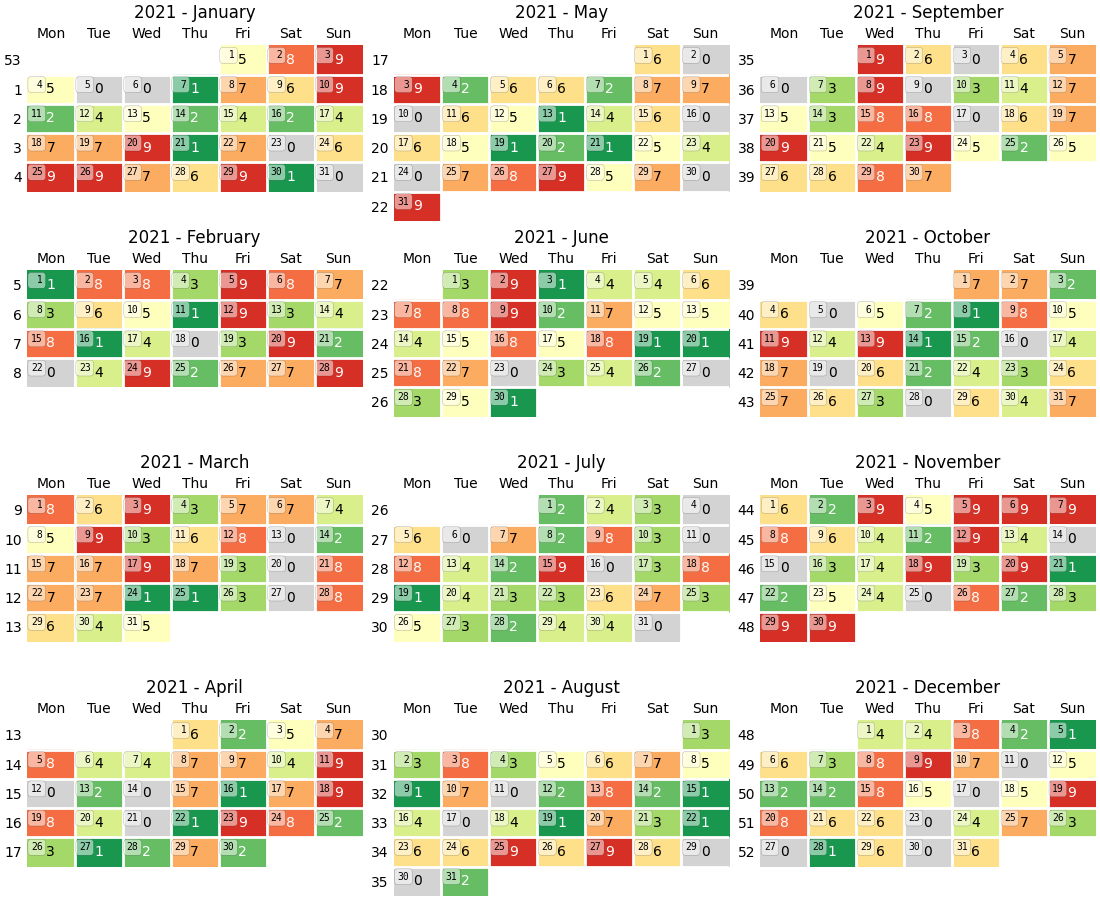
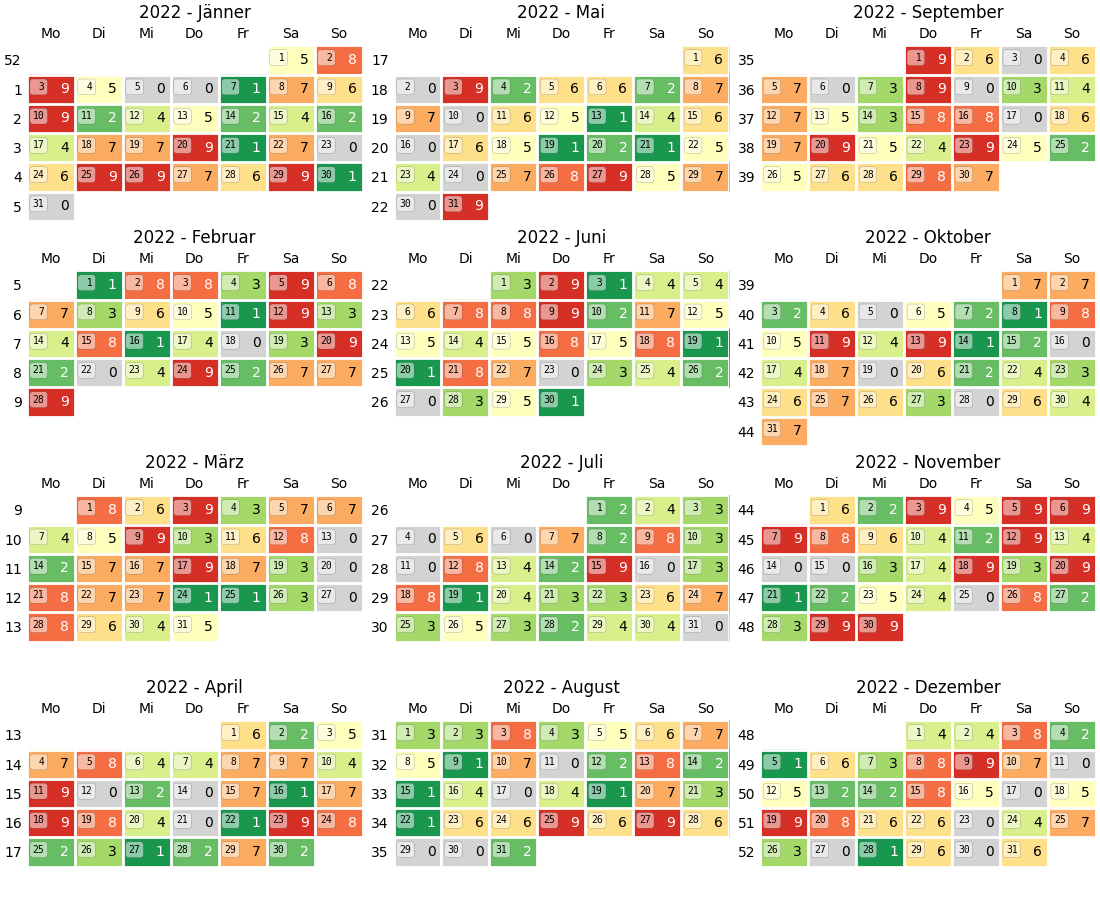
removed seaborn as requirement

diff --git a/_github_preview_plot/_make_preview_plot.py b/_github_preview_plot/_make_preview_plot.py
@@ -1,36 +1,18 @@
+import pandas as pd
+import numpy as np
+import matplotlib.pyplot as plt
 import calendar
 import copy
-from math import ceil
-
-import matplotlib.pyplot as plt
-import numpy as np
-import pandas as pd
 from matplotlib.colors import Normalize
 
+from math import ceil
 
-def _get_txt_coords(col, row, annotation_fmt, pad):
-    # ha='center', va='center'
-    x = col
-    if annotation_fmt['ha'] == 'center':
-        x -= 0.5
-    elif annotation_fmt['ha'] == 'left':
-        x -= 1 + pad
-    elif annotation_fmt['ha'] == 'right':
-        x -= pad
-
-    y = row
-    if annotation_fmt['va'] == 'center':
-        y += 0.5
-    elif annotation_fmt['va'] == 'bottom':
-        y += 1 - pad
-    elif annotation_fmt['va'] == 'top':
-        y += pad
-    return x, y
+from monthly_calendar_plot.plot import _get_txt_coords
 
 
-def monthly_calendar_figure(series, cols=3, cmap='RdYlGn_r', min_value=0.001, color_unter='lightgray', color_bad='grey',
-                            transpose_figure=True, value_max=None,
-                            month_fmt='%Y - %B', annotation_fmt=None, value_fmt='_.0f'):
+def _icon_monthly_calendar_figure(series, cols=3, cmap='RdYlGn_r', min_value=0.001, color_unter='lightgray', color_bad='grey',
+                                  transpose_figure=True, value_max=None,
+                                  month_fmt='%Y - %B', annotation_fmt=None, value_fmt='_.0f'):
     """
     Create a calendar with each month separate.
     Week numbers as rows and day of the week names as columns.
@@ -54,7 +36,7 @@ def monthly_calendar_figure(series, cols=3, cmap='RdYlGn_r', min_value=0.001, co
     month_groups = series.groupby(series.index.to_period('M'))
     rows = ceil(month_groups.ngroups / cols)
 
-    fig = plt.figure(constrained_layout=True)  # type: plt.Figure
+    fig = plt.figure(tight_layout=True)  # type: plt.Figure
     axes = fig.subplots(rows, cols)
 
     # fig.get_layout_engine().set(h_pad=0.1, w_pad=0.1)
@@ -120,14 +102,17 @@ def monthly_calendar_figure(series, cols=3, cmap='RdYlGn_r', min_value=0.001, co
         ax.grid(which="minor", color="w", linestyle='-', linewidth=2)
 
         ax.set_xticks(np.arange(0.5, 7))
+        # ax.set_xticklabels(['~'] * len(weekday_names))
         ax.set_xticklabels(weekday_names)
         ax.set_ylabel('')
         ax.set_title(month.strftime(month_fmt))
+        # ax.set_title('~~~~')
         ax.xaxis.tick_top()
         # [str(x) for x in ax.get_yticklabels()]
         ax.set_yticks(np.arange(0.5, n_weeks))
         # ax.set_yticklabels([x.get_text()[5:].lstrip('0') for x in ax.get_yticklabels()])
-        ax.set_yticklabels(((df.index - df.index.astype(int)).values*100).round(0).astype(int))
+        ax.set_yticklabels(['--']*len(ax.get_yticks()))
+        # ax.set_yticklabels(((df.index - df.index.astype(int)).values*100).round(0).astype(int))
         ax.set_ylim(6, 0)
         # ax.yaxis.set_ticks_position('none')
         ax.tick_params(axis=u'both', which=u'both', width=0, length=0.01)
@@ -142,10 +127,10 @@ def monthly_calendar_figure(series, cols=3, cmap='RdYlGn_r', min_value=0.001, co
             col = dayofweek
 
             # Day of the month
-            ax.text(col-1+pad, row+pad*2, f'{day:2d}', ha='left', va='top', size=7, family='monospace',
-                    bbox=dict(boxstyle='round', facecolor='white', alpha=0.5, lw=0.2))
+            # ax.text(col-1+pad, row+pad*2, f'{day:2d}', ha='left', va='top', size=7, family='monospace',
+            #         bbox=dict(boxstyle='round', facecolor='white', alpha=0.5, lw=0.2))
 
-            ax.text(*_get_txt_coords(col, row, annotation_fmt, pad), f'{value:{value_fmt}}', **annotation_fmt, color=_get_txt_color(value))
+            ax.text(*_get_txt_coords(col, row, annotation_fmt, pad), '--', **annotation_fmt, color=_get_txt_color(value))
 
         if there_is_a_progress_bar:
             progress_bar.update()
@@ -154,3 +139,22 @@ def monthly_calendar_figure(series, cols=3, cmap='RdYlGn_r', min_value=0.001, co
         progress_bar.close()
 
     return fig
+
+
+if __name__ == '__main__':
+    # Creating random dataset:
+    index = pd.date_range('2022-01-01', '2022-12-31', freq='D')
+    np.random.seed(1)
+    data = np.random.randint(0, 10, size=(len(index)))
+    # making the data to a pandas.Series:
+    daily = pd.Series(index=index, data=data)
+
+    # actual plotting function:
+    fig = _icon_monthly_calendar_figure(series=daily, cols=3, cmap='RdYlGn_r', min_value=0.001, color_unter='lightgray', color_bad='white', annotation_fmt=dict(ha='right'))
+    # 1280×640px
+    fig.set_dpi(100)
+    fig.set_size_inches(h=6.4, w=12.8)
+    fig.suptitle('monthly_calendar_plot', weight='bold', size=32)
+    # fig.tight_layout(pad=0.01, rect=[0.1, 0.1, 0.8, 0.8])
+    # 80 pt inches (1 inch = 100 pt)
+    fig.savefig('icon.png', bbox_inches='tight', pad_inches=1)

diff --git a/setup.py b/setup.py
@@ -1,35 +1,3 @@
-__author__ = "Markus Pichler"
-__credits__ = ["Markus Pichler"]
-__maintainer__ = "Markus Pichler"
-__email__ = "markus.pichler@tugraz.at"
-__version__ = "0.1"
-__license__ = "MIT"
-
 from setuptools import setup
 
-
-with open("README.md", "r") as fh:
-    long_description = fh.read()
-
-with open('requirements.txt') as f:
-    requirements = f.read().splitlines()
-
-setup(
-    name='monthly-calendar-analysis',
-    version='0.1beta',
-    packages=['monthly_calendar_analysis'],
-    url='https://github.com/MarkusPic/monthly-calendar-plot',
-    license='MIT',
-    author='Markus Pichler',
-    author_email='markus.pichler@tugraz.at',
-    description='create a calendar with each month separate. week numbers as rows and day of the week names as columns',
-    # scripts=['bin/idf_analysis'],
-    install_requires=requirements,
-    long_description=long_description,
-    long_description_content_type="text/markdown",
-    classifiers=[
-        "Programming Language :: Python :: 3",
-        "License :: OSI Approved :: MIT License",
-        "Operating System :: OS Independent",
-    ],
-)
+setup()

diff --git a/example.py b/example.py
@@ -1,8 +1,11 @@
 from monthly_calendar_plot import monthly_calendar_figure
 import pandas as pd
 import numpy as np
+import locale
+
 
 if __name__ == '__main__':
+    locale.setlocale(locale.LC_ALL, 'de_AT.UTF-8')
     # Creating random dataset:
     index = pd.date_range('2022-01-01', '2022-12-31', freq='D')
     np.random.seed(1)
@@ -11,6 +14,6 @@ if __name__ == '__main__':
     daily = pd.Series(index=index, data=data)
 
     # actual plotting function:
-    fig = monthly_calendar_figure(series=daily, cols=3, cmap='RdYlGn_r', min_value=0.001, color_unter='lightgray', color_bad='white')
+    fig = monthly_calendar_figure(series=daily, cols=3, cmap='RdYlGn_r', min_value=0.001, color_unter='lightgray', color_bad='white', annotation_fmt=dict(ha='right'))
     fig.set_size_inches(h=9, w=11)
     fig.savefig('example.png')

diff --git a/README.md b/README.md
@@ -7,14 +7,20 @@ create a calendar with each month separate. week numbers as rows and day of the 
 from monthly_calendar_plot import monthly_calendar_figure
 import pandas as pd
 import numpy as np
+import locale
 
 if __name__ == '__main__':
-    index = pd.date_range('2021-01-01', '2021-12-31', freq='D')
+    # setting the language used for the plot | default to operating system
+    locale.setlocale(locale.LC_ALL, 'de_AT.UTF-8')
+    # Creating random dataset:
+    index = pd.date_range('2022-01-01', '2022-12-31', freq='D')
     np.random.seed(1)
     data = np.random.randint(0, 10, size=(len(index)))
+    # making the data to a pandas.Series:
     daily = pd.Series(index=index, data=data)
-    fig = monthly_calendar_figure(series=daily, cols=3, cmap='RdYlGn_r', min_value=0.001, color_unter='lightgray',
-                                  h=12, w=17)
-    fig.savefig('example.png')
 
+    # actual plotting function:
+    fig = monthly_calendar_figure(series=daily, cols=3, cmap='RdYlGn_r', min_value=0.001, color_unter='lightgray', color_bad='white', annotation_fmt=dict(ha='right'))
+    fig.set_size_inches(h=9, w=11)
+    fig.savefig('example.png')
 ```
